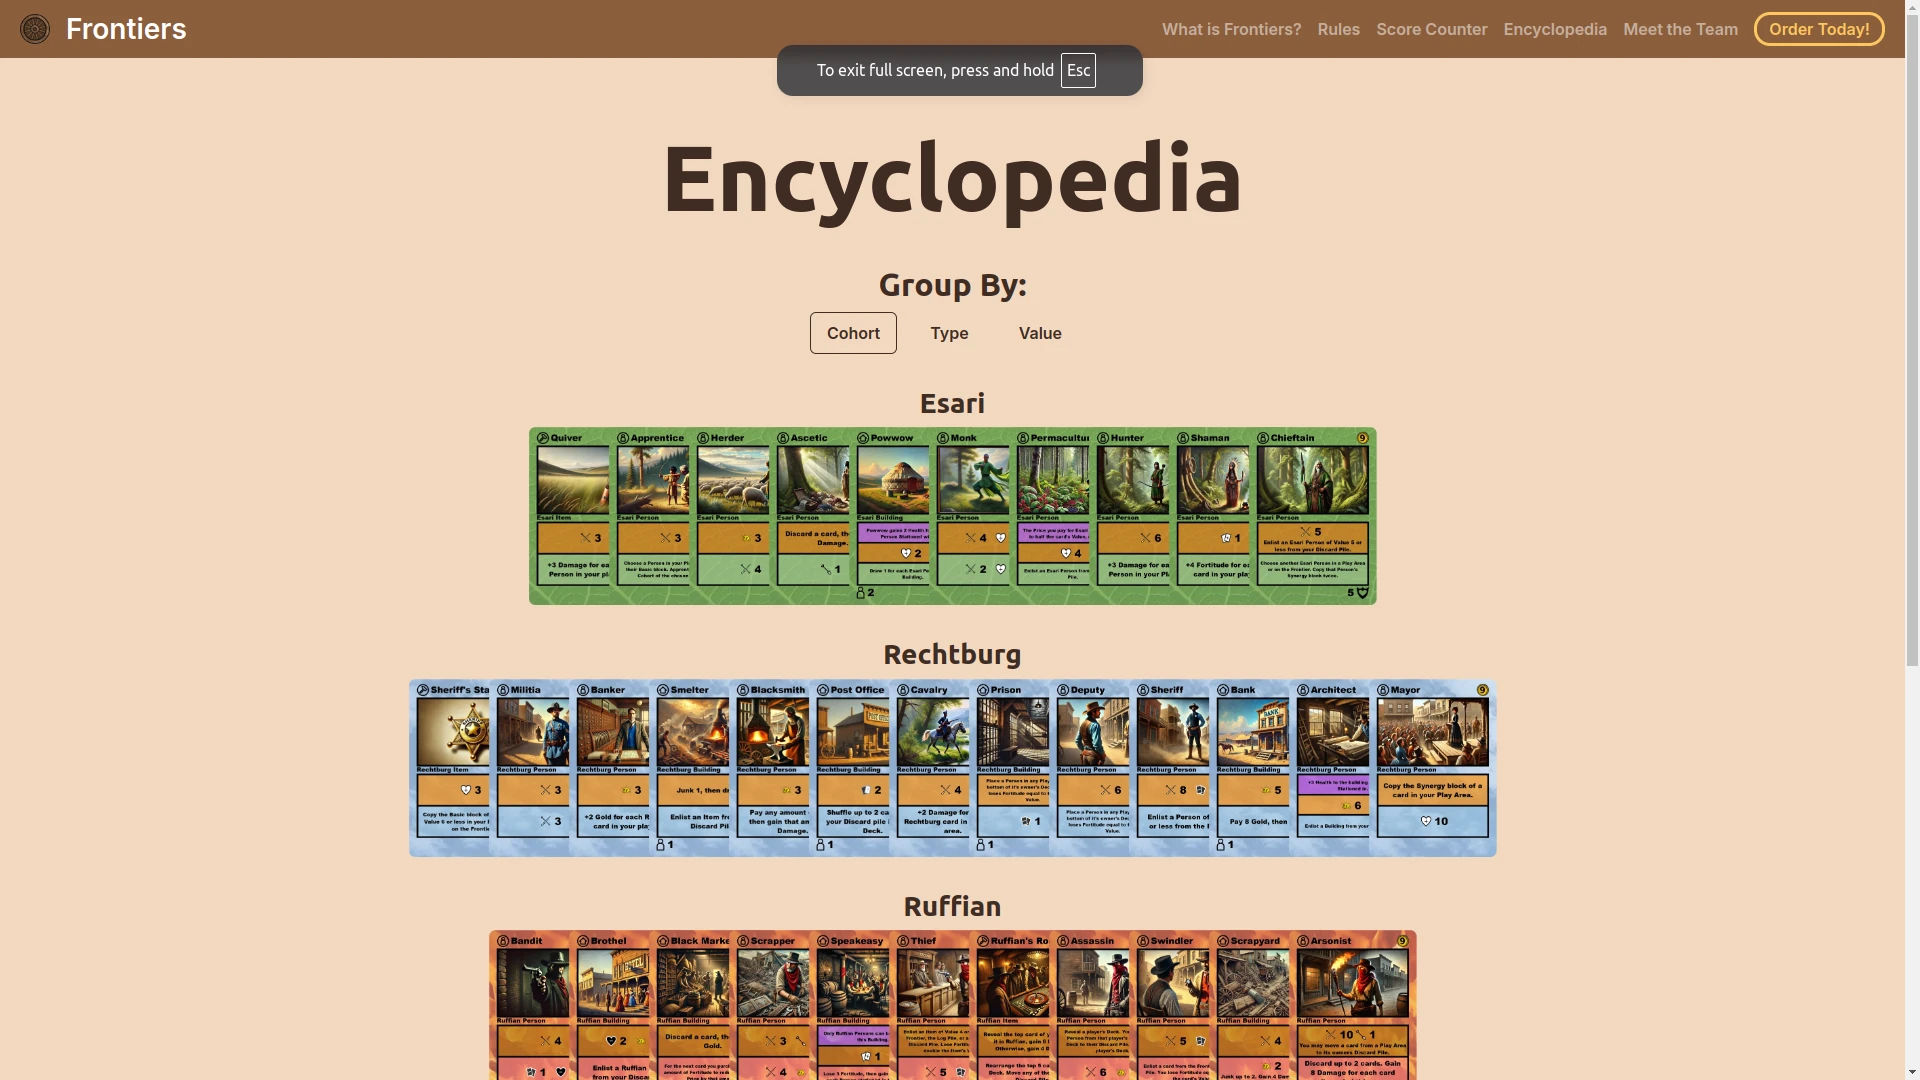
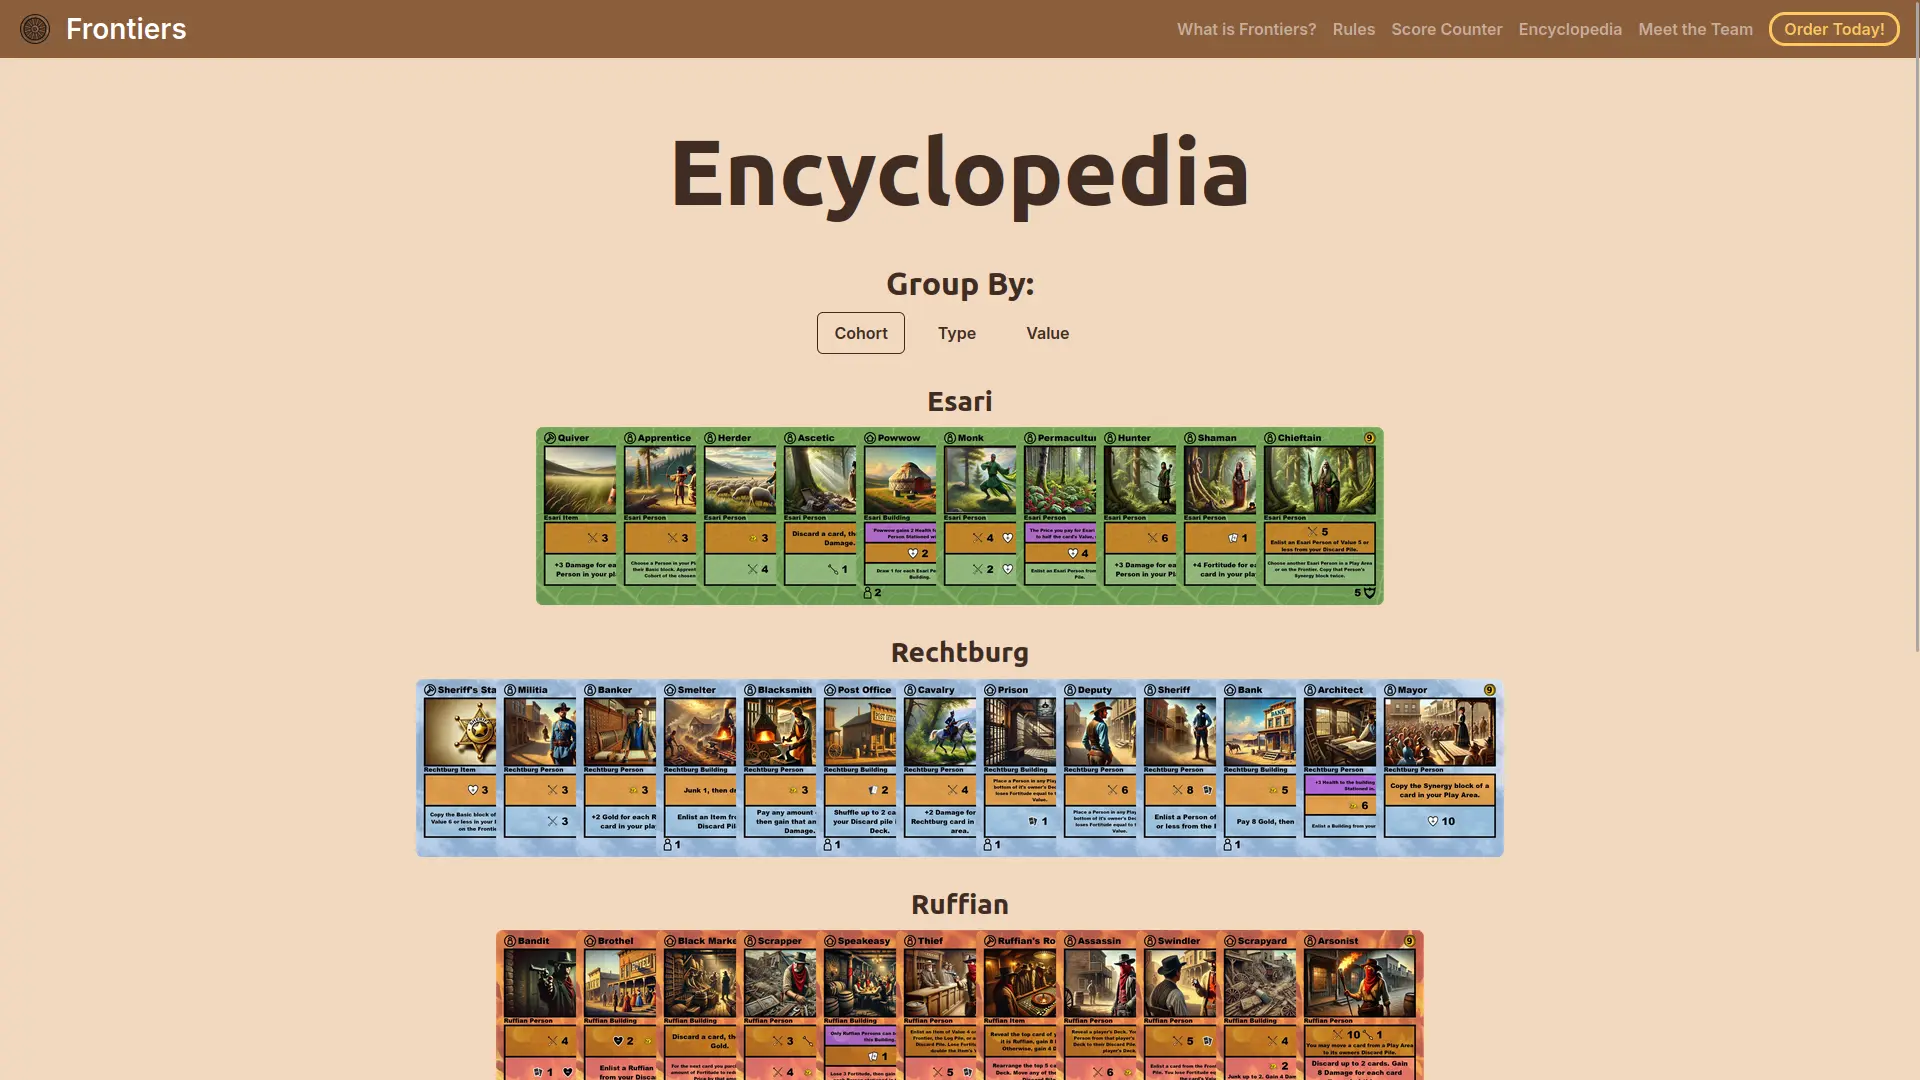
Winter Cleanups: Update about section (#3)
* Cleanup: Fix file watcher

* Update Frontiers image to remove popup

* Cleanup: Re-word introduction

* Add consulting section

diff --git a/templates/pages/about/consulting.html b/templates/pages/about/consulting.html
@@ -1,0 +1,22 @@
+{{define "consulting"}}
+<div class="row">
+    <div class="col-12">
+        <h2 class="text-center text-decoration-underline">Professional Consulting</h2>
+        <p>
+            Since 2020, Trial and Errror has been my personal brand for technical consulting for small businesses
+            and non-profits. For some clients, my main focus has been building and maintaining customized web
+            applications to address business needs. For examples of my full applications, check out the
+            <a href="/projects.html">Projects</a> page.
+        </p>
+        <p>
+            For other clients, my work focused around bringing together the right
+            tools combined with comprehensive education in order to empower clients to solve their own problems and
+            identify when they need to reach out for more assistance. Whether that be improving security and fighting
+            incoming spam emails, finding ways to centralize information about current pets, or connecting internal
+            database to external services to avoid having to duplicate inventory calculations, my goal is to find
+            ways to leverage the right combination of technology and education to address the challenges my clients
+            face.
+        </p>
+    </div>
+</div>
+{{end}} 

diff --git a/templates/pages/about/introduction.html b/templates/pages/about/introduction.html
@@ -2,22 +2,20 @@
 <div class="row">
   <div class="col-12">
     <p>
-      Trial and Errror is a creative brand focused on Web Development,
+      Trial and Errror is Wade Green's creative brand focused on Web Development,
       Technical Consulting, and Video Content Development and
-      Production.
-    </p>
-    <p>
-      Created by Wade Green Trial and Errror has been building quality
+      Production. Trial and Errror has been building quality
       web applications and websites since 2019. Trial and Errror also
       provides valuable insights and advice around Web Development and
       Application building.
     </p>
-
     <p>
       Founded on the idea of "Everyone Makes Mistakes", Trial and Errror
       is focused on developing quality applications as well as educating
       technology users about best practices around use and growth of
-      their applications.
+      their applications. Through a combination of professional consulting
+      and general education, Wade aims to spread technical literacy and help
+      people to solve their problems with technology.
     </p>
   </div>
 </div>

diff --git a/templates/pages/about.html b/templates/pages/about.html
@@ -6,6 +6,8 @@
 
   {{template "introduction" .}}
 
+  {{template "consulting" .}}
+
   {{template "video-content" .}}
 
   {{template "writings" .}}
